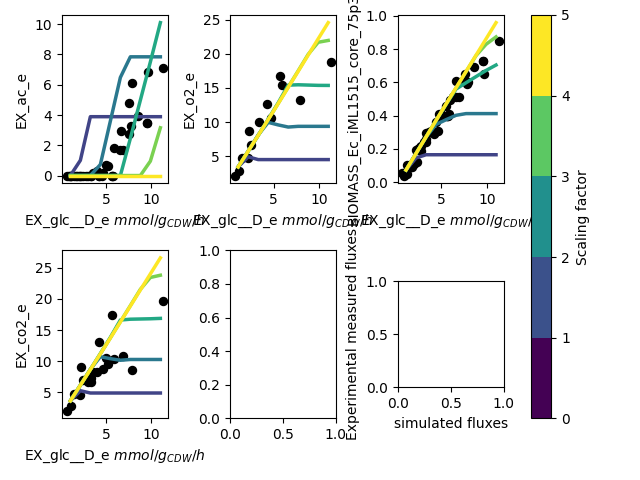
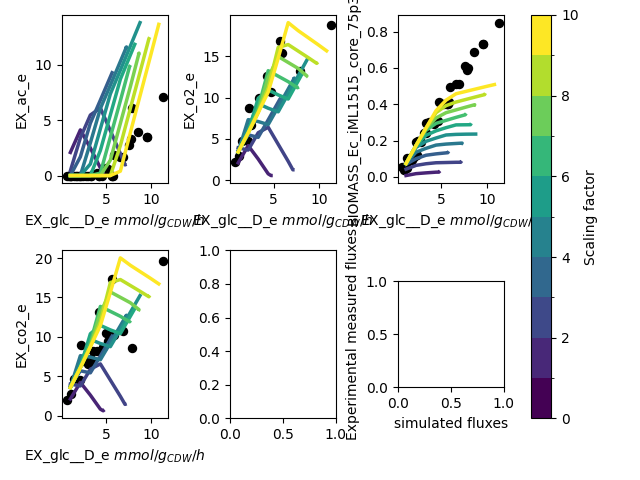
updated scaling factors based on new PAModelpy version with correct translational protein parsing

diff --git a/Scripts/i1_preprocessing/1_scale_kcats_AES.py b/Scripts/i1_preprocessing/1_scale_kcats_AES.py
@@ -2,13 +2,15 @@ import pandas as pd
 import numpy as np
 import os
 from typing import Union, Callable
+
 from PAModelpy import PAModel
 import matplotlib.pyplot as plt
 
-from Modules.utils.pam_generation import setup_pputida_pam, setup_yeast_pam
+from Modules.utils.pam_generation import setup_pputida_pam, setup_yeast_pam, setup_cglutanicum_pam
 from PAModelpy.utils import set_up_pam
 from Scripts.i2_parametrization.pam_parametrizer_iML1515 import set_up_pamparametrizer
 from Scripts.i2_parametrization.pam_parametrizer_iJN1463 import set_up_pamparametrizer as set_up_pamparam_pputida
+from Scripts.i2_parametrization.pam_parametrizer_iCGB21FR import set_up_pamparametrizer as set_up_pamparam_cglutanicum
 from Scripts.i2_parametrization.pam_parametrizer_yeast9 import set_up_pamparametrizer as set_up_pamparam_yeast9
 
 
@@ -47,8 +49,8 @@ def scan_kcat_factors(max_factor:int,
     factors_to_scan = np.arange(min_factor,max_factor+stepsize,stepsize)
 
     pam_parametrizer_kwargs['threshold_iteration'] = len(factors_to_scan)
-    pam_parametrizer = setup_pamparametrizer_function(substrate_uptake_rates[0],
-                                                      substrate_uptake_rates[-1],
+    pam_parametrizer = setup_pamparametrizer_function(min_substrate_uptake_rate = substrate_uptake_rates[0],
+                                                      max_substrate_uptake_rate =substrate_uptake_rates[-1],
                                                       **pam_parametrizer_kwargs)
     fig, axs = pam_parametrizer.plot_valid_data()
 
@@ -72,14 +74,14 @@ def scan_kcat_factors(max_factor:int,
     print("\n-------------------------------------------------------------------\nDone scanning the kcat multiplication factors")
 
 def scan_kcat_factors_iML1515():
-    scan_kcat_factors(10, os.path.join('Results', '1_preprocessing','figures',  'multifactor_scan_iML1515.png'))
+    scan_kcat_factors(10, os.path.join('Results', '1_preprocessing','figures', 'multifactor_scan_iML1515.png'))
 
 
 def scan_kcat_factors_pputida():
     scan_kcat_factors(max_factor=10,
                       min_factor=1,
                       stepsize=1,
-                      scan_figure_file_path= os.path.join('Results','1_preprocessing','multifactor_scan_iJN1463.png'),
+                      scan_figure_file_path= os.path.join('Results','1_preprocessing','figures','multifactor_scan_iJN1463.png'),
                       setup_pam_function=setup_pputida_pam,
                       pam_info_file=os.path.join(
                           'Results', '1_preprocessing', 'proteinAllocationModel_iJN1463_EnzymaticData_250225.xlsx'
@@ -88,12 +90,24 @@ def scan_kcat_factors_pputida():
                       substrate_reaction_id= 'EX_glc__D_e',
                       substrate_uptake_rates= np.arange(-15,1,1))
 
+def scan_kcat_factors_cglutanicum():
+    scan_kcat_factors(max_factor=10,
+                      min_factor=1,
+                      stepsize=1,
+                      scan_figure_file_path= os.path.join('Results','1_preprocessing','figures','multifactor_scan_iCGB21FR.png'),
+                      setup_pam_function=setup_cglutanicum_pam,
+                      pam_info_file=os.path.join(
+                          'Results', '1_preprocessing','proteinAllocationModel_iCGB21FR_EnzymaticData_250227.xlsx'
+                      ),
+                      setup_pamparametrizer_function=set_up_pamparam_cglutanicum,
+                      substrate_reaction_id= 'EX_glc__D_e',
+                      substrate_uptake_rates= np.arange(-20,1,1))
 
 def scan_kcat_factors_yeast9():
     scan_kcat_factors(max_factor=10,
                       min_factor=1,
                       stepsize=1,
-                      scan_figure_file_path= os.path.join('Results','1_preprocessing','multifactor_scan_yeast9.png'),
+                      scan_figure_file_path= os.path.join('Results','1_preprocessing','figures','multifactor_scan_yeast9.png'),
                       setup_pam_function=setup_yeast_pam,
                       pam_info_file=os.path.join(
                           'Results', '1_preprocessing','proteinAllocationModel_yeast9_EnzymaticData_TurnUp.xlsx'
@@ -104,5 +118,6 @@ def scan_kcat_factors_yeast9():
 
 if __name__ == '__main__':
     # scan_kcat_factors_iML1515()
-    scan_kcat_factors_yeast9()
     # scan_kcat_factors_pputida()
+    scan_kcat_factors_cglutanicum()
+    # scan_kcat_factors_yeast9()

diff --git a/Scripts/i2_parametrization/pam_parametrizer_iCGB21FR.py b/Scripts/i2_parametrization/pam_parametrizer_iCGB21FR.py
@@ -88,6 +88,7 @@ def set_up_hyperparameter(processes: int,
     return hyperparams
 
 def set_up_pamparametrizer(max_substrate_uptake_rate:float,
+                           min_substrate_uptake_rate:float =-10,
                            pam_info_file: str = os.path.join(
                                              'Results', '1_preprocessing',
                                              'proteinAllocationModel_iCGB21FR_EnzymaticData_250227.xlsx'),
@@ -139,6 +140,7 @@ def run_parametrizations(n_iterations:int=5,
         pam_parametrizer = set_up_pamparametrizer(MAX_SUBSTRATE_UPTAKE_RATE,
                                                   pam_info_file=pam_info_file,
                                                   filename_extension = f'iCGB21FR_{i}',
+                                                  kcat_increase_factor=2,
                                                   c_sources=['Glucose', 'Succinate', 'Fructose', 'Gluconate'])
         #
         pam_parametrizer.run(remove_subruns=True, binned='False')

diff --git a/Scripts/i2_parametrization/pam_parametrizer_iJN1463.py b/Scripts/i2_parametrization/pam_parametrizer_iJN1463.py
@@ -183,6 +183,7 @@ def run_parametrizations(n_iterations:int=5,
         pam_parametrizer = set_up_pamparametrizer(MIN_SUBSTRATE_UPTAKE_RATE, MAX_SUBSTRATE_UPTAKE_RATE,
                                                   pam_info_file = pam_info_file,
                                                   filename_extension = f'iJN1463_{i}',
+                                                  kcat_increase_factor= 7,
                                                   c_sources=['Glycerol', 'Glucose', 'Succinate', 'Fructose', 'm-Xylene',
                                                              'Toluene', 'Benzoate', 'Octanoate'])
         #
